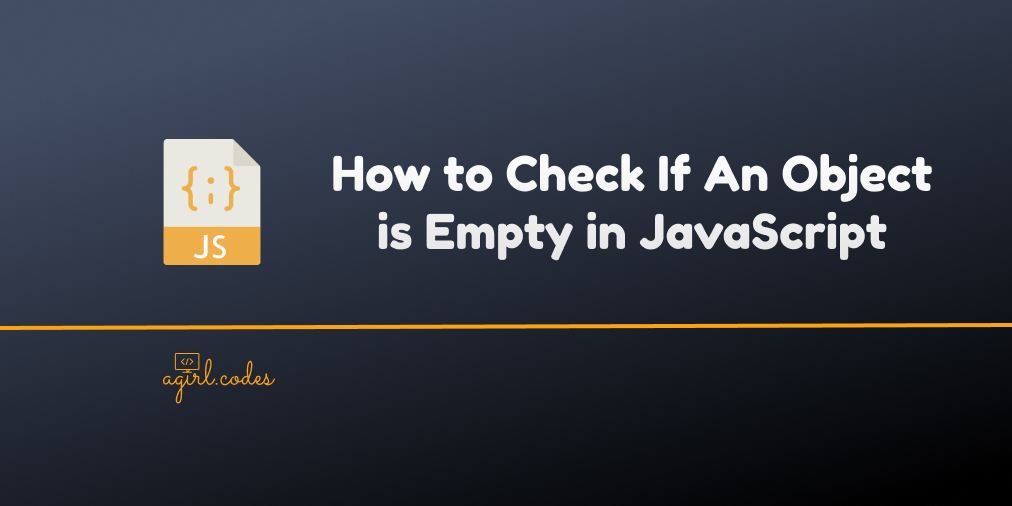
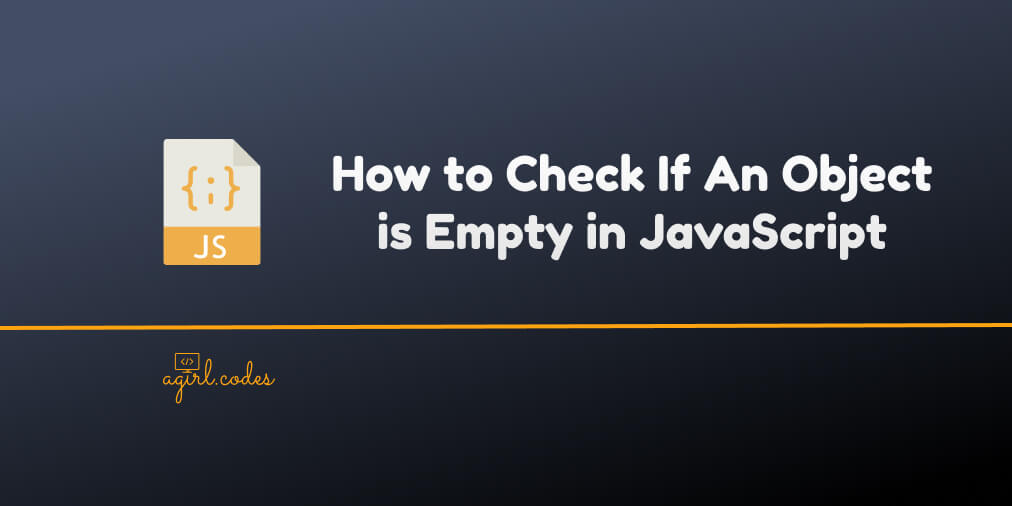
shrink image, update

Changed region(s): [[0.1532, 0.7115, 0.2757, 0.7708]]

diff --git a/pages/post/[postname].js b/pages/post/[postname].js
@@ -99,12 +99,12 @@ export default function BlogPost({ siteTitle, frontmatter, markdownBody }) {
         <meta property="og:type" content="article" />
         <meta property="og:title" content={frontmatter.title} />
         <meta property="og:description" content={frontmatter.description} />
-        <meta property="og:image" content={frontmatter.image} />
+        <meta property="og:image" content={`https://www.agirl.codes${frontmatter.image}`} />
         <meta name="description" content={frontmatter.description}></meta>
-        <meta name="twitter:card" content="summary" />
+        <meta name="twitter:card" content="summary_large_image" />
         <meta name="twitter:description" content={frontmatter.description} />
         <meta name="twitter:title" content={frontmatter.title} />
-        <meta name="twitter:image" content={frontmatter.image} />
+        <meta name="twitter:image" content={`https://www.agirl.codes${frontmatter.image}`} />
         <meta name="twitter:site" content="@kelly_perrie" />
         <meta name="twitter:creator" content="@kelly_perrie" />
         <meta name="viewport" content="width=device-width, initial-scale=1" />
